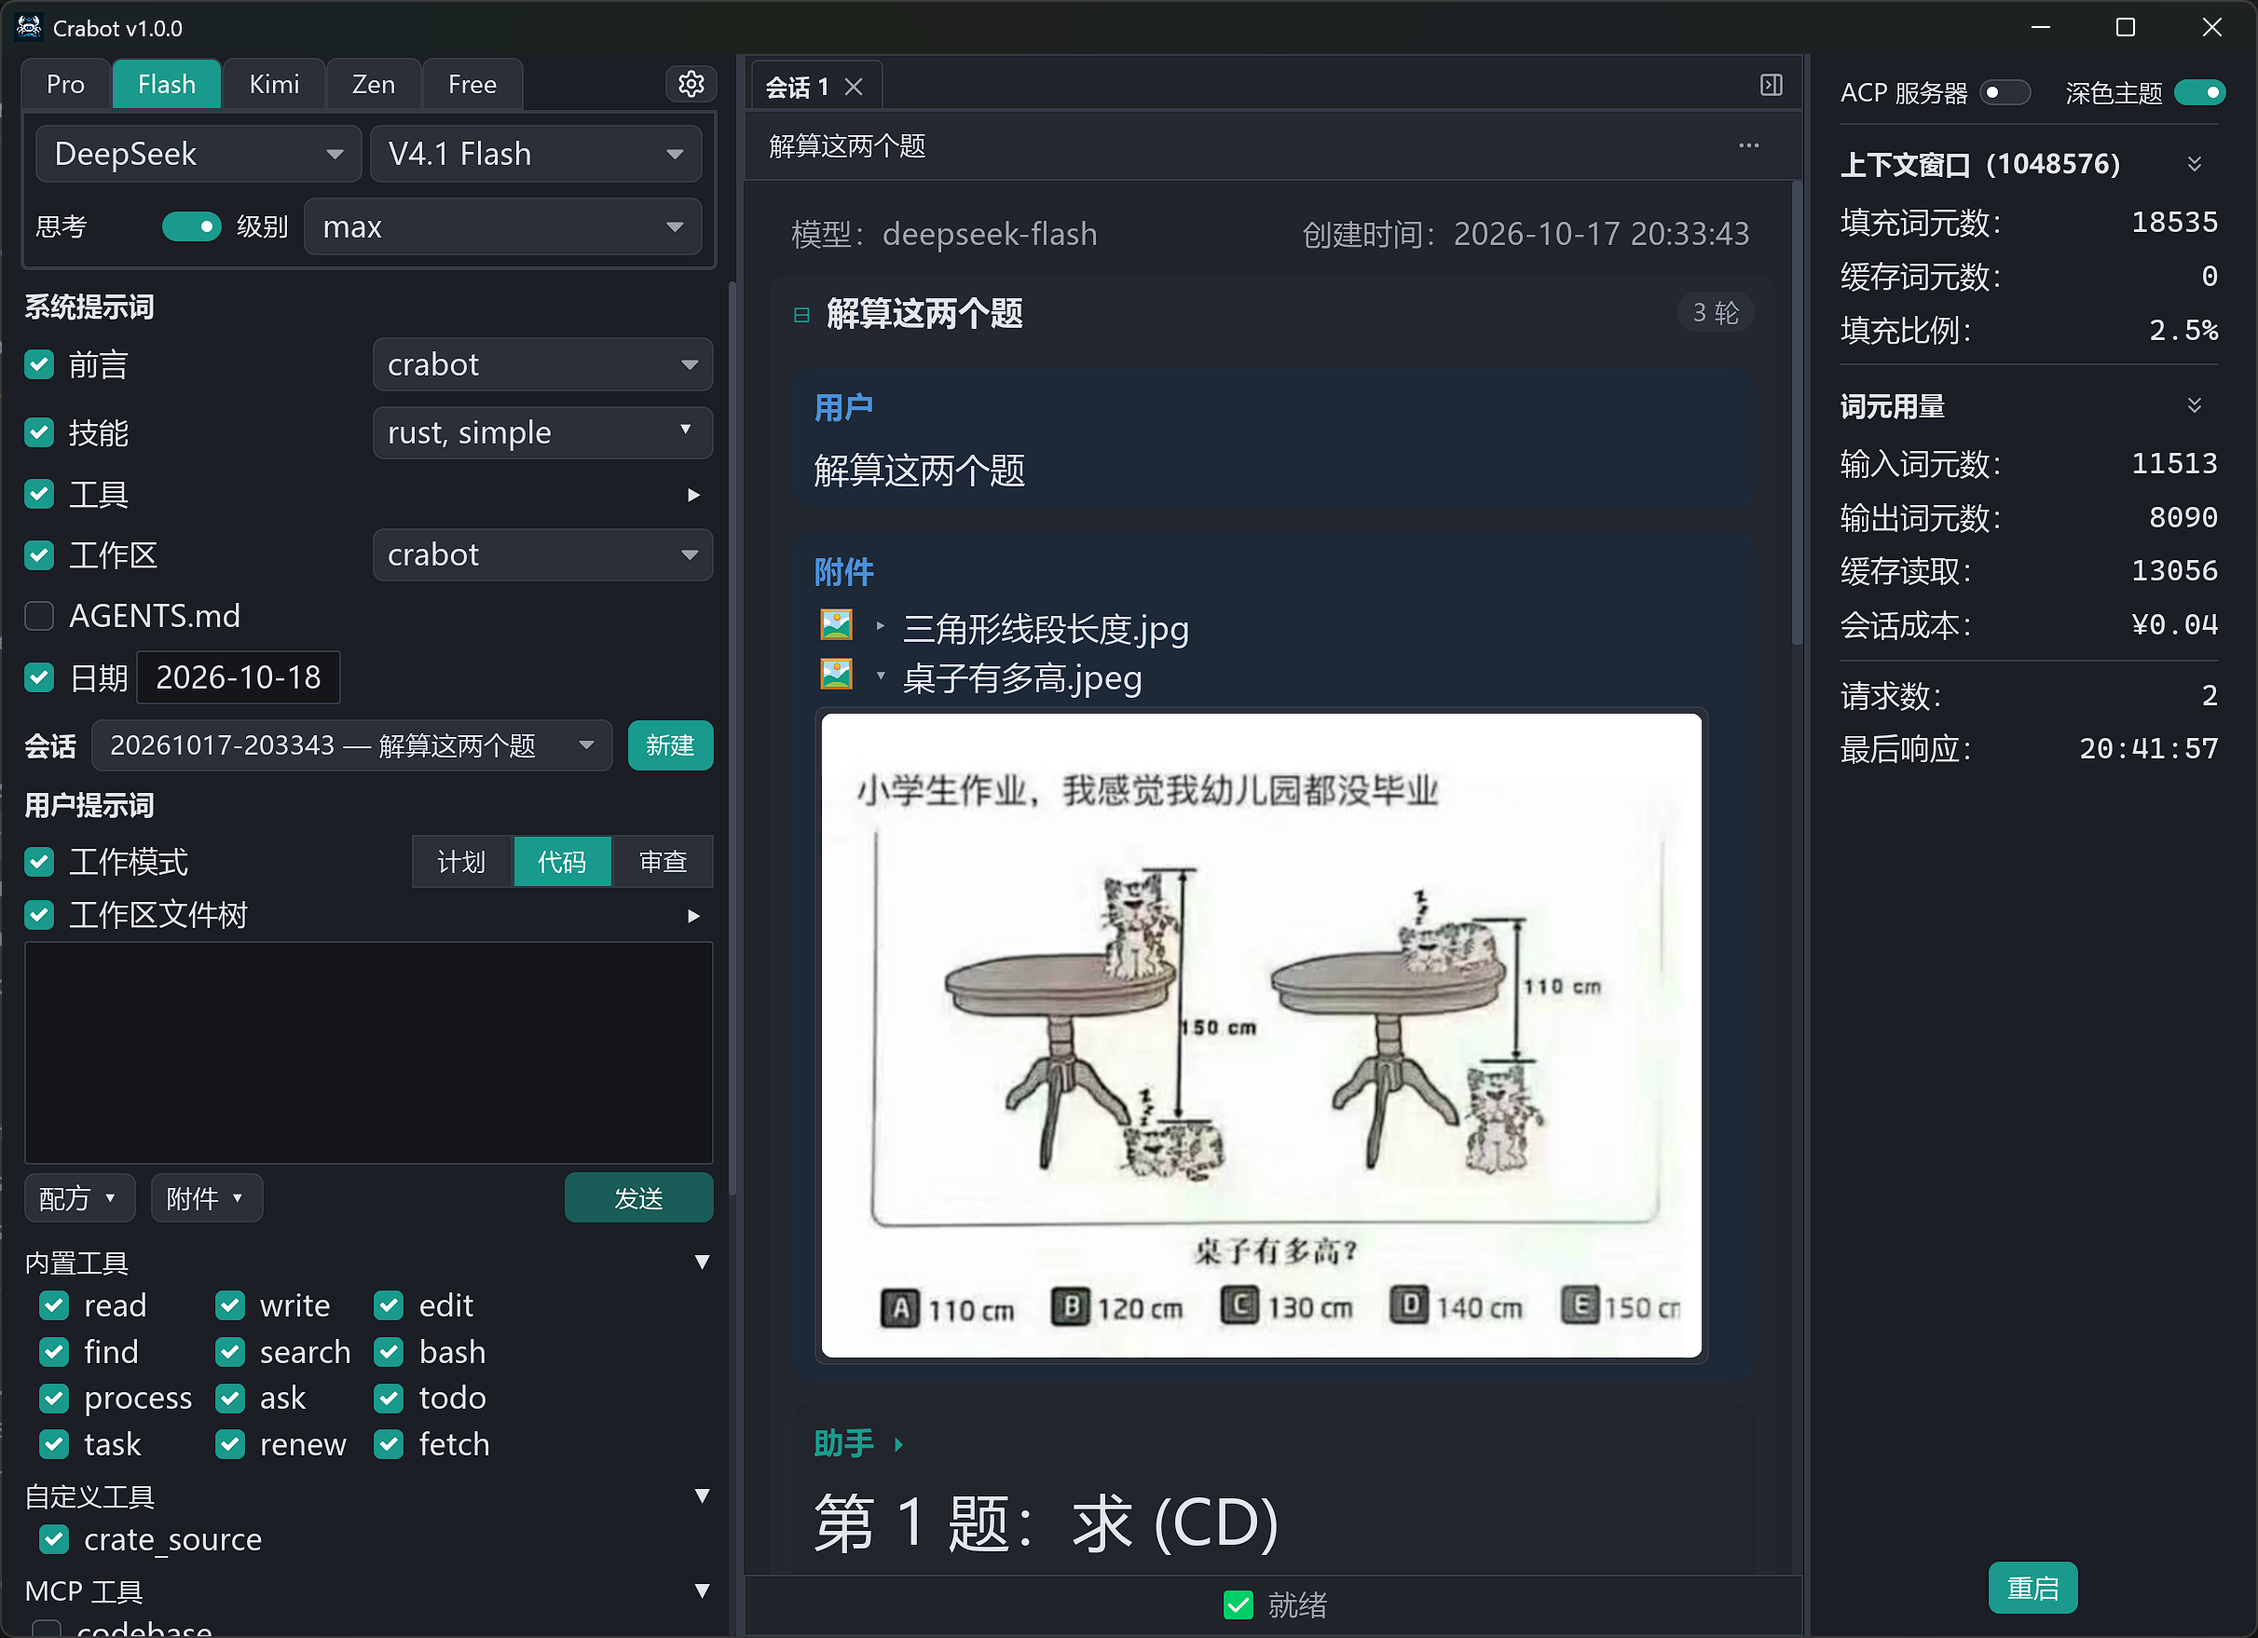
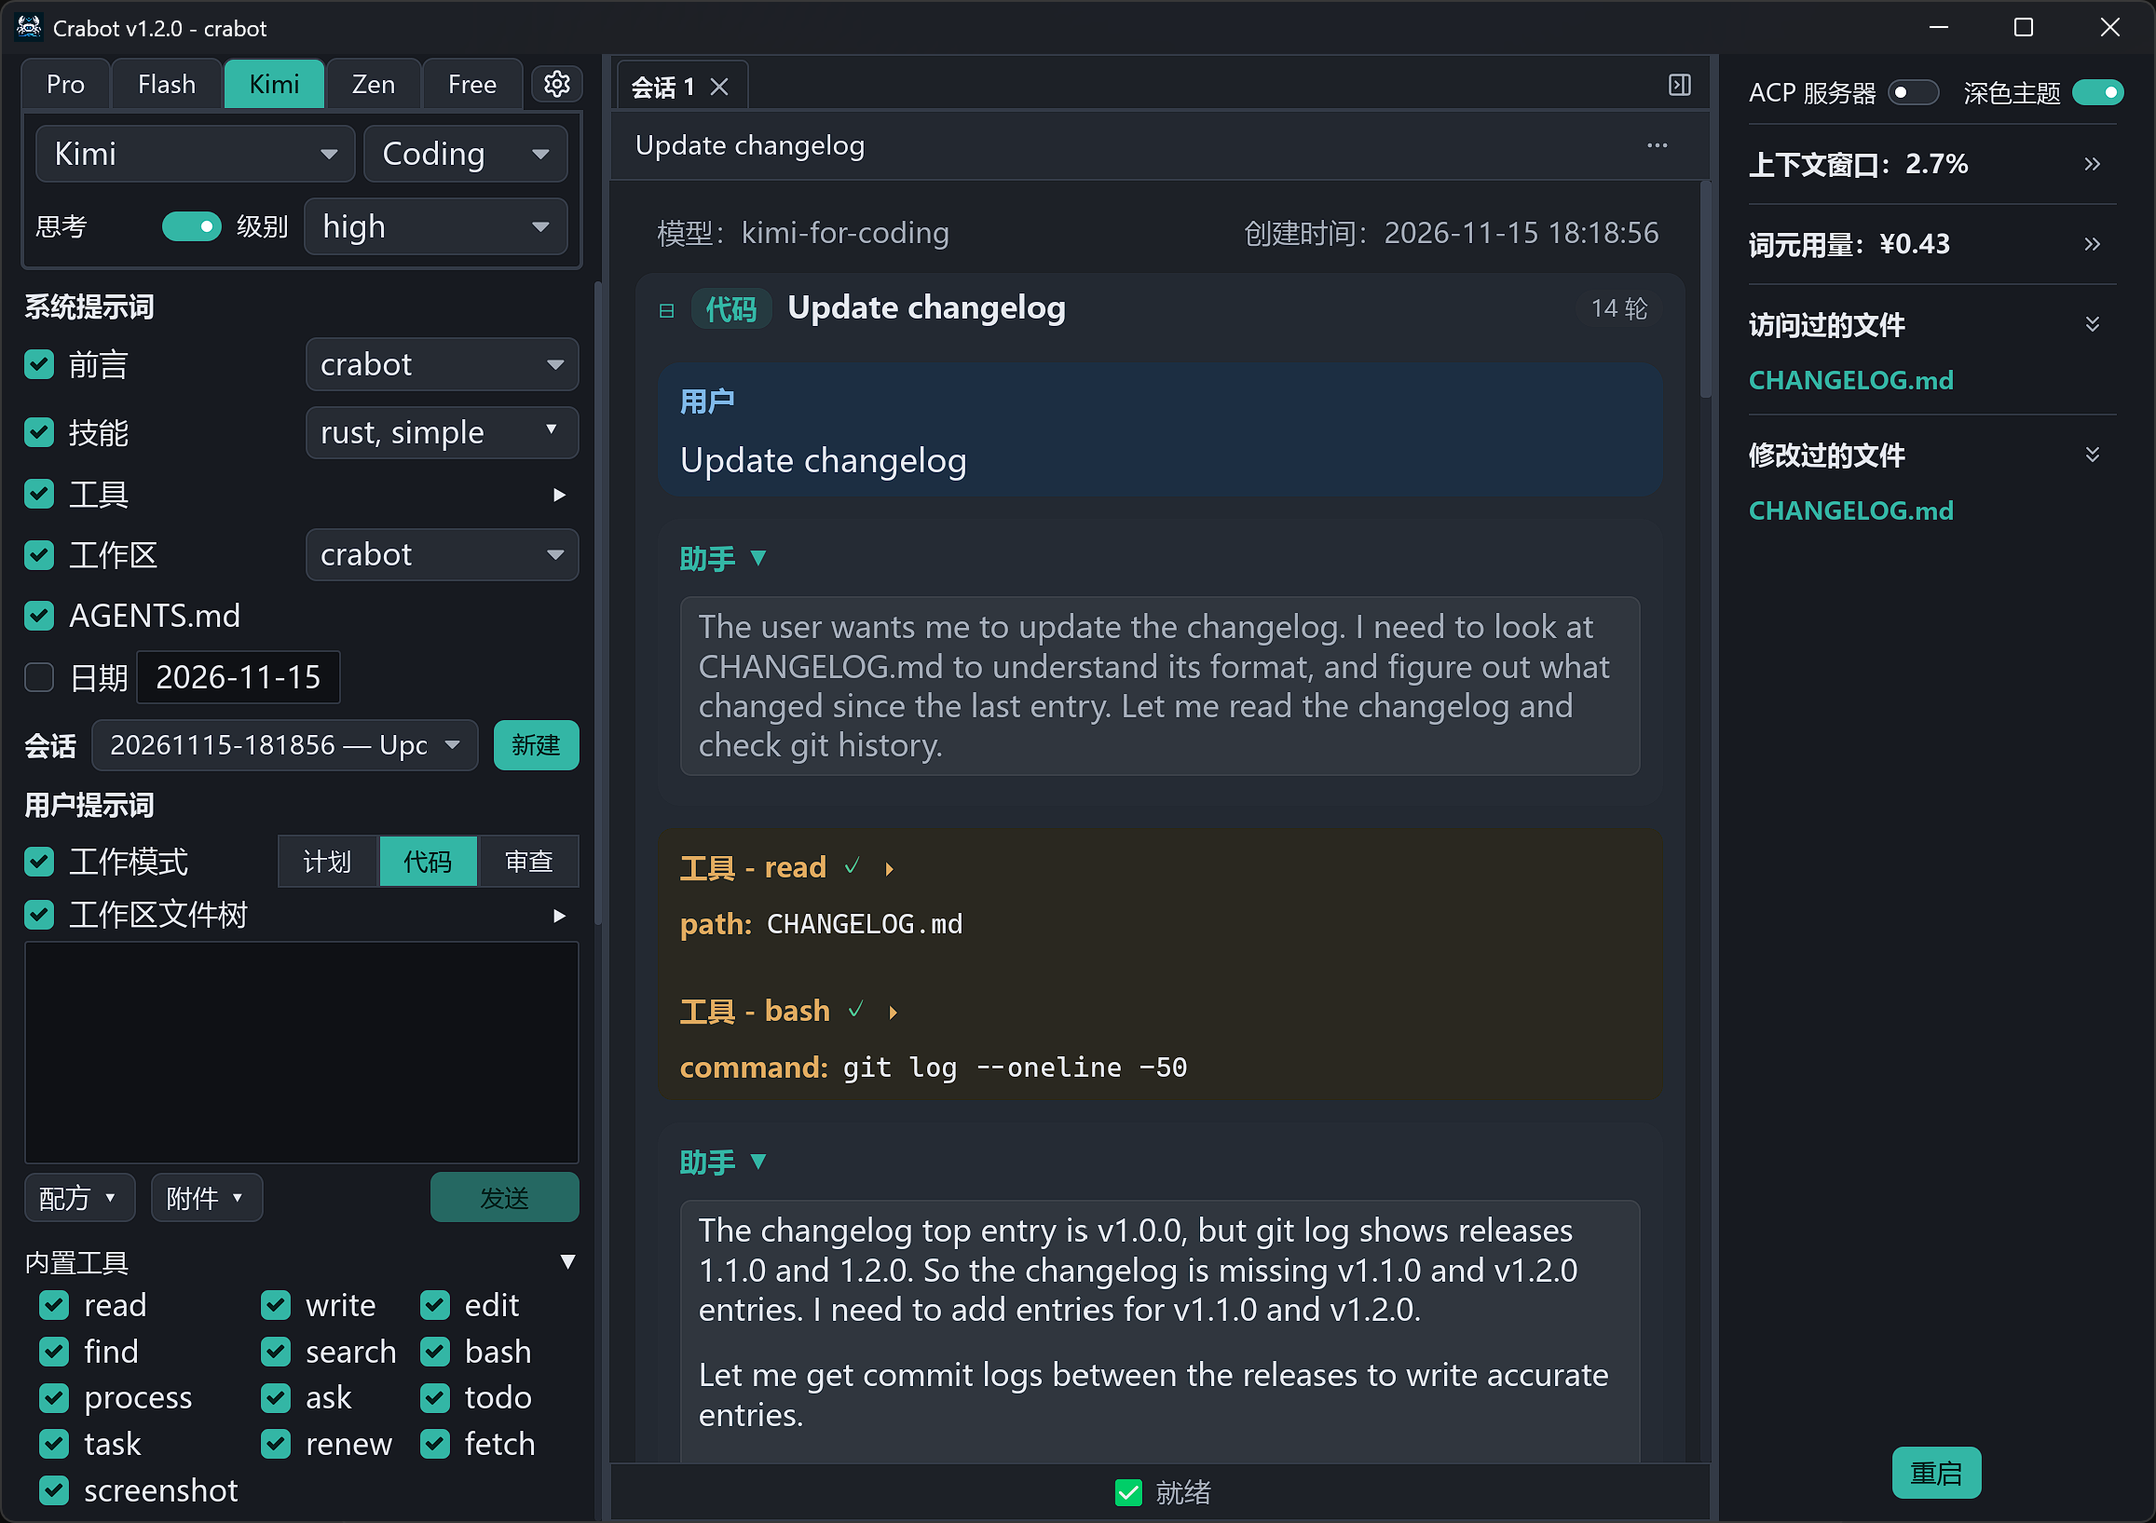
Update Changelog

diff --git a/CHANGELOG.md b/CHANGELOG.md
@@ -1,3 +1,30 @@
+# Crabot v1.2.0
+
+- **Built-in `screenshot` tool** — list monitors and windows or capture a chosen one with `xcap`; the shot is saved under `.agent/screenshots/` and attached to the conversation as a picture.
+- **Inline picture previews** — any picture a tool attaches (screenshots included) shows a click-to-expand preview in the chat.
+- **Dark-theme color styles** — pick Graphite Teal, Deep Ocean, or Warm Ember; each style consistently recolors the entire UI.
+- **Current-round file highlighting** — files modified or read in the current round stand out at a glance in the right pane.
+- **Skill installer skill** — a built-in skill that simplifies installing, converting, and reviewing third-party agent skills.
+- **Compacting keeps `ask` exchanges** — the preamble and reasoning that led to an `ask` question are preserved when a session is compacted.
+- **Smaller default binary** — the embedded Wasm CPython behind the `bash` tool is now opt-in via the `python` cargo feature; default builds use the host interpreter and ship a binary ~45 MB smaller.
+- **Discard a pending prompt** — the pending-prompt bar gains a discard button, so a prompt parked behind a running reply can be taken back into the editor.
+- **Other fixes** — the `ask` tool waits 3 minutes for user input; `crate_source` resolves crates written with underscores or hyphens; a failed `edit` now states that nothing was applied; the Chinese "Select new folder" label is corrected; genai and bashkit are updated.
+
+**Full Changelog**: [`v1.1.0...v1.2.0`](https://github.com/J-F-Liu/crabot/compare/v1.1.0...v1.2.0)
+
+# Crabot v1.1.0
+
+- **Task queue** — `task` sub-agents beyond the configurable concurrency limit wait FIFO in a new right-pane **Task Queue** section and start as slots free up; a queued request whose parent stops waiting is failed back to it instead of hanging its stream.
+- **Stopping a task asks first** — stopping a task tab asks whether to return "User cancelled this task" to its waiting parent; declining keeps the call pending so the task can be resumed.
+- **Real failure reasons in the status bar** — a failed LLM request shows its actual cause instead of a generic "request failed", both during retries and after terminal errors.
+- **Streaming external commands** — host commands run as streaming bashkit commands, so piped stdin, shell redirects, and live output work for `git`, `cargo`, and other bridged tools.
+- **Per-MCP-server tool management** — the left pane gains bulk select/deselect, collapsible tool grids, and a clickable 1–3 column layout cycle; tool selections and connections stay stable across server reconfiguration.
+- **Per-provider request extras** — provider entries can carry extra HTTP headers and an `extra_body` JSON object (with a no-auth option), merged into every request; the advanced fields collapse behind a "More/Less" toggle.
+- **Background-session signals** — a tab blocked waiting for a `task` sub-agent shows an orange status dot, and taskbar flashing on failure continues until the window is focused.
+- **Other improvements** — the window title shows the active workspace's folder name; clicking a modified file opens its diff in VS Code; the Tool Playground shows allowed enum values; the token-usage panel drops the redundant reasoning row; Send no longer clears the textarea history; the Date field refreshes at each local midnight; consecutive duplicate log records collapse with a suppressed count.
+
+**Full Changelog**: [`v1.0.0...v1.1.0`](https://github.com/J-F-Liu/crabot/compare/v1.0.0...v1.1.0)
+
 # Crabot v1.0.0
 
 - **Prompt attachments** — attach text and image files to a prompt; text is inserted into the request, images are sent as image parts, and the chat shows every attachment with a clickable inline preview.
